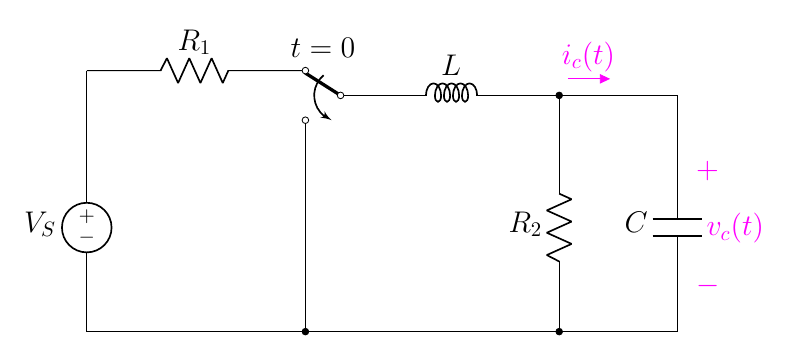
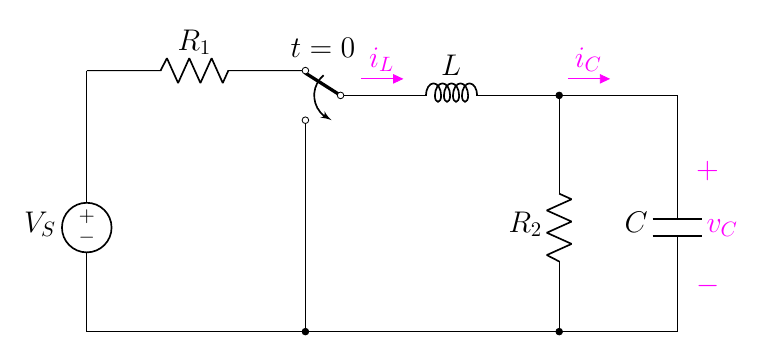
8.25

diff --git a/2.8 Underdamped/8.3.2 The Underdamp RLC Circuit/8.25(new).tex b/2.8 Underdamped/8.3.2 The Underdamp RLC Circuit/8.25(new).tex
@@ -41,10 +41,13 @@
     %%% find %%%
     \node at (4,4.8)[]{$t=0$};
     \draw[magenta](10.2,0.5)
-        to[open, v>=$v_c(t)$] ++(0,2.5);
+        to[open, v>=$v_C$] ++(0,2.5);
 
     \draw[circuitikz/current arrow color=magenta](8,4)
-    to[open,f>^=$\color{magenta}{i_c(t)}$] ++(2.4,0);
+    to[open,f>^=$\color{magenta}{i_C}$] ++(2.4,0);
+
+    \draw[circuitikz/current arrow color=magenta](4.5,4)
+    to[open,f>^=$\color{magenta}{i_L}$] ++(2.4,0);
 
 \end{circuitikz}
 \end{document}
